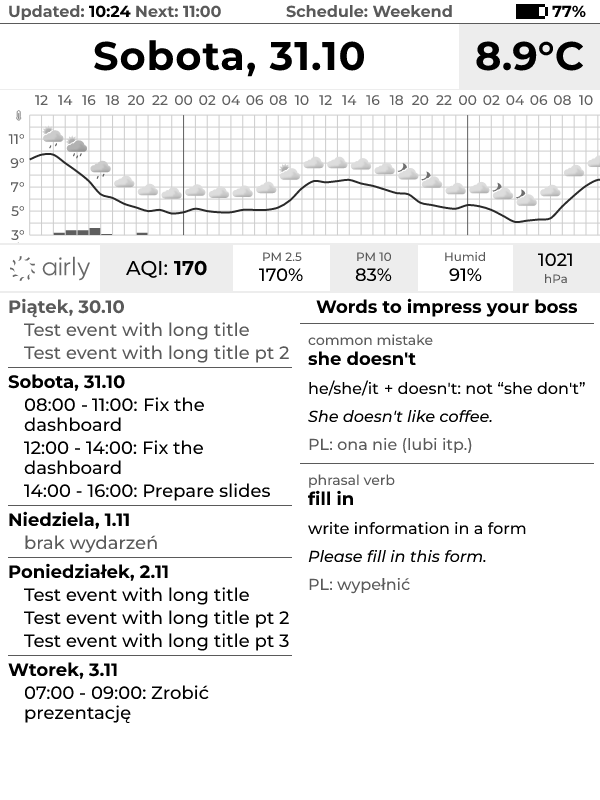
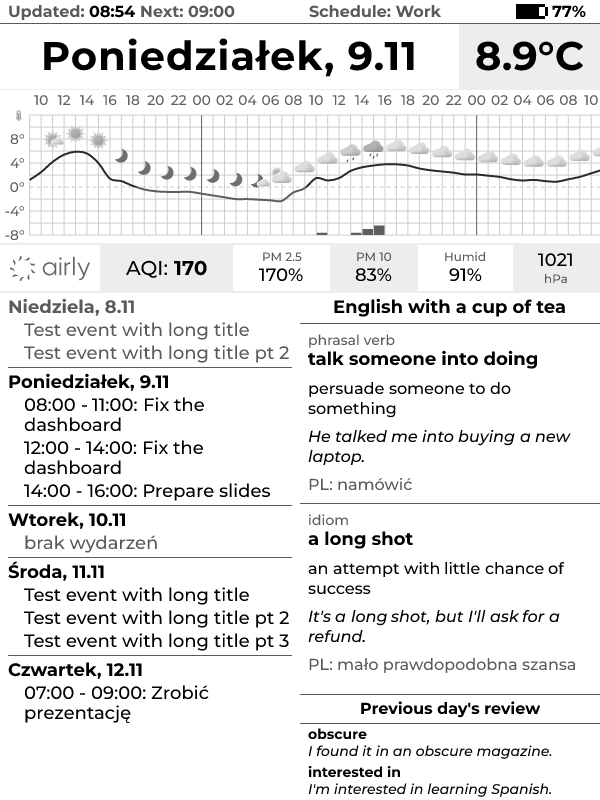
feat: review previous English phrases daily and the whole week on weekends

diff --git a/src/render/components/daily-english.ts b/src/render/components/daily-english.ts
@@ -1,4 +1,9 @@
-import type { DailyPhrase, DailyEnglish as DailyEnglishData } from "../../types.ts";
+import type {
+  DailyPhrase,
+  DailyEnglish as DailyEnglishData,
+  EnglishReview,
+  ReviewPhrase,
+} from "../../types.ts";
 import { html } from "../html.ts";
 import { COLORS, FONT_WEIGHT } from "../theme.ts";
 
@@ -6,36 +11,126 @@ type DailyEnglishProps = {
   dailyEnglish: DailyEnglishData;
 };
 
+/** Fills the column, so the review sits at its bottom. */
 const CONTAINER_STYLE = {
   display: "flex",
   flexDirection: "column",
+  justifyContent: "space-between",
+  width: "100%",
   fontSize: 16,
+} as const;
+
+const SECTION_STYLE = { display: "flex", flexDirection: "column" } as const;
+
+const SECTION_TITLE_STYLE = {
+  display: "flex",
+  justifyContent: "center",
+  padding: "4px 8px",
+  fontSize: 18,
+  fontWeight: FONT_WEIGHT.bold,
+  borderBottom: `1px solid ${COLORS.textDim}`,
+} as const;
+
+/** Smaller than the new phrases, so the review fits below them on long days. */
+const REVIEW_FONT_SIZE = 14;
+/** The weekend review fills the whole column, so it has room for larger text. */
+const WEEKEND_REVIEW_FONT_SIZE = 16;
+
+const REVIEW_PHRASE_STYLE = { ...SECTION_STYLE, padding: "2px 8px" } as const;
+/** The weekend review has the whole column, so it spaces the phrases out. */
+const WEEKEND_REVIEW_PHRASE_STYLE = { ...SECTION_STYLE, padding: "2px 8px 6px" } as const;
+
+const WEEKDAY_HEADING_STYLE = {
+  display: "flex",
+  padding: "4px 8px 0",
+  fontSize: 14,
+  color: COLORS.textDim,
+  borderTop: `1px solid ${COLORS.textDim}`,
 } as const;
 
 const PARAGRAPH_STYLE = { display: "flex", margin: "8px 0 0" } as const;
 
 export function DailyEnglish({ dailyEnglish }: DailyEnglishProps) {
-  const { title, phrases } = dailyEnglish;
+  const { title, phrases, review } = dailyEnglish;
+
+  if (phrases.length === 0) {
+    return html`
+      <div style=${CONTAINER_STYLE}>${WeekendReview({ review })}</div>
+    `;
+  }
 
   return html`
     <div style=${CONTAINER_STYLE}>
-      <div
-        style=${{
-          display: "flex",
-          justifyContent: "center",
-          padding: "4px 8px",
-          fontSize: 18,
-          fontWeight: FONT_WEIGHT.bold,
-          borderBottom: `1px solid ${COLORS.textDim}`,
-        }}
-      >
-        ${title}
+      <div style=${SECTION_STYLE}>
+        <div style=${SECTION_TITLE_STYLE}>${title}</div>
+        ${phrases.map((dailyPhrase, index) =>
+          PhraseCard({ dailyPhrase, index, isLast: index === phrases.length - 1 })
+        )}
       </div>
-      ${phrases.map((dailyPhrase, index) =>
-        PhraseCard({ dailyPhrase, index, isLast: index === phrases.length - 1 })
+      ${Review({ review })}
+    </div>
+  `;
+}
+
+type ReviewProps = {
+  review: EnglishReview;
+};
+
+function Review({ review }: ReviewProps) {
+  return html`
+    <div
+      style=${{
+        ...SECTION_STYLE,
+        fontSize: REVIEW_FONT_SIZE,
+        borderTop: `1px solid ${COLORS.textDim}`,
+      }}
+    >
+      <div style=${{ ...SECTION_TITLE_STYLE, fontSize: 16 }}>${review.title}</div>
+      ${review.days.flatMap(({ phrases }) =>
+        ReviewPhrases({ phrases, style: REVIEW_PHRASE_STYLE })
       )}
     </div>
   `;
+}
+
+function WeekendReview({ review }: ReviewProps) {
+  return html`
+    <div style=${{ ...SECTION_STYLE, fontSize: WEEKEND_REVIEW_FONT_SIZE }}>
+      <div style=${SECTION_TITLE_STYLE}>${review.title}</div>
+      ${review.days.map(
+        ({ weekday, phrases }, index) => html`
+          <div
+            key=${weekday}
+            style=${{
+              ...WEEKDAY_HEADING_STYLE,
+              borderTop: index === 0 ? "none" : WEEKDAY_HEADING_STYLE.borderTop,
+            }}
+          >
+            ${weekday}
+          </div>
+          ${ReviewPhrases({ phrases, style: WEEKEND_REVIEW_PHRASE_STYLE })}
+        `
+      )}
+    </div>
+  `;
+}
+
+type ReviewPhrasesProps = {
+  phrases: ReviewPhrase[];
+  style: Record<string, string | number>;
+};
+
+function ReviewPhrases({ phrases, style }: ReviewPhrasesProps) {
+  return phrases.map(
+    ({ phrase, example }, index) => html`
+      <div key=${index} style=${style}>
+        <div style=${{ display: "flex", fontWeight: FONT_WEIGHT.bold }}>
+          ${phrase}
+        </div>
+        <div style=${{ display: "flex", fontStyle: "italic" }}>${example}</div>
+      </div>
+    `
+  );
 }
 
 type PhraseCardProps = {

diff --git a/src/data/daily-english.ts b/src/data/daily-english.ts
@@ -1,5 +1,11 @@
 import { TIME_ZONE } from "../config.ts";
-import type { EnglishPhrase, DailyPhrase, DailyEnglish } from "../types.ts";
+import type {
+  EnglishPhrase,
+  DailyPhrase,
+  DailyEnglish,
+  ReviewDay,
+  ReviewPhrase,
+} from "../types.ts";
 import { collocations } from "./english-phrases/collocations.ts";
 import { commonMistakes } from "./english-phrases/common-mistakes.ts";
 import { falseFriends } from "./english-phrases/false-friends.ts";
@@ -35,22 +41,123 @@ const TITLES = [
 ];
 
 const MS_PER_DAY = 24 * 60 * 60 * 1000;
+const DAYS_PER_WEEK = 7;
+const STUDY_DAYS_PER_WEEK = 5;
+/** 1970-01-01, day 0 of the epoch, was a Thursday: three days after Monday. */
+const EPOCH_DAYS_SINCE_MONDAY = 3;
 const PHRASES_PER_DAY = 2;
 
+const WEEKDAY_NAMES = [
+  "Monday",
+  "Tuesday",
+  "Wednesday",
+  "Thursday",
+  "Friday",
+  "Saturday",
+  "Sunday",
+];
+const SHORT_WEEKDAY_NAME_LENGTH = 3;
+const SATURDAY = 5;
+const SUNDAY = 6;
+
 /**
- * Each day takes the next PHRASES_PER_DAY slots of the rotation, so the phrases
- * shown together always come from different categories.
+ * Weekends bring no new phrases: each weekend day reviews part of the week,
+ * as weekday indexes (0 = Monday). Split so each review fits the column.
+ */
+const WEEKEND_REVIEW_DAYS: Record<number, number[]> = {
+  [SATURDAY]: [0, 1, 2],
+  [SUNDAY]: [3, 4],
+};
+
+type StudyDay = {
+  /** Weeks since the epoch, starting on Mondays. */
+  week: number;
+  /** 0 = Monday … 6 = Sunday */
+  weekday: number;
+};
+
+/**
+ * Each weekday takes the next PHRASES_PER_DAY slots of the rotation, so the
+ * phrases shown together always come from different categories. The previous
+ * weekday's phrases come back as a review, without the meaning and translation.
  */
 export function getDailyEnglish(date: Date): DailyEnglish {
   const dayNumber = localDayNumber(date);
-  const firstSlot = dayNumber * PHRASES_PER_DAY;
+  const title = TITLES[dayNumber % TITLES.length];
+  const { week, weekday } = toStudyDay(dayNumber);
+  const weekendReviewDays = WEEKEND_REVIEW_DAYS[weekday];
+
+  if (weekendReviewDays) {
+    return {
+      title,
+      phrases: [],
+      review: {
+        title: `Weekly review: ${reviewDaysLabel(weekendReviewDays)}`,
+        days: weekendReviewDays.map((reviewDay) =>
+          reviewDayFor(studyDayIndex(week, reviewDay))
+        ),
+      },
+    };
+  }
+
+  const todayIndex = studyDayIndex(week, weekday);
 
   return {
-    title: TITLES[dayNumber % TITLES.length],
-    phrases: Array.from({ length: PHRASES_PER_DAY }, (_, offset) =>
-      phraseForSlot(firstSlot + offset)
-    ),
+    title,
+    phrases: phrasesForStudyDay(todayIndex),
+    review: {
+      title: "Previous day's review",
+      days: [reviewDayFor(todayIndex - 1)],
+    },
   };
+}
+
+function toStudyDay(dayNumber: number): StudyDay {
+  const daysSinceMonday = dayNumber + EPOCH_DAYS_SINCE_MONDAY;
+
+  return {
+    week: Math.floor(daysSinceMonday / DAYS_PER_WEEK),
+    weekday: daysSinceMonday % DAYS_PER_WEEK,
+  };
+}
+
+/** Counts only weekdays, so weekends don't skip phrases of the rotation. */
+function studyDayIndex(week: number, weekday: number): number {
+  return week * STUDY_DAYS_PER_WEEK + weekday;
+}
+
+/** Study days run Monday to Friday, so the index within a week is the weekday. */
+function weekdayOfStudyDay(studyDay: number): number {
+  const weekday = studyDay % STUDY_DAYS_PER_WEEK;
+
+  return weekday < 0 ? weekday + STUDY_DAYS_PER_WEEK : weekday;
+}
+
+function reviewDaysLabel(weekdays: number[]): string {
+  const [first, last] = [weekdays[0], weekdays[weekdays.length - 1]].map(
+    (weekday) => WEEKDAY_NAMES[weekday].slice(0, SHORT_WEEKDAY_NAME_LENGTH)
+  );
+
+  return `${first}–${last}`;
+}
+
+function phrasesForStudyDay(studyDay: number): DailyPhrase[] {
+  const firstSlot = studyDay * PHRASES_PER_DAY;
+
+  return Array.from({ length: PHRASES_PER_DAY }, (_, offset) =>
+    phraseForSlot(firstSlot + offset)
+  );
+}
+
+function reviewDayFor(studyDay: number): ReviewDay {
+  return {
+    weekday: WEEKDAY_NAMES[weekdayOfStudyDay(studyDay)],
+    phrases: phrasesForStudyDay(studyDay).map(toReviewPhrase),
+  };
+}
+
+function toReviewPhrase({ phrase, example }: DailyPhrase): ReviewPhrase {
+  return { phrase, example };
 }
 
 function phraseForSlot(slot: number): DailyPhrase {

diff --git a/src/types.ts b/src/types.ts
@@ -86,9 +86,25 @@ export type DailyPhrase = EnglishPhrase & {
   category: string;
 };
 
+/** A phrase from the previous day, recalled without its meaning and translation. */
+export type ReviewPhrase = Pick<EnglishPhrase, "phrase" | "example">;
+
+export type ReviewDay = {
+  /** e.g. "Monday" */
+  weekday: string;
+  phrases: ReviewPhrase[];
+};
+
+export type EnglishReview = {
+  title: string;
+  days: ReviewDay[];
+};
+
 export type DailyEnglish = {
   title: string;
+  /** Empty on weekends, which only review the week. */
   phrases: DailyPhrase[];
+  review: EnglishReview;
 };
 
 export type GospelData = {
